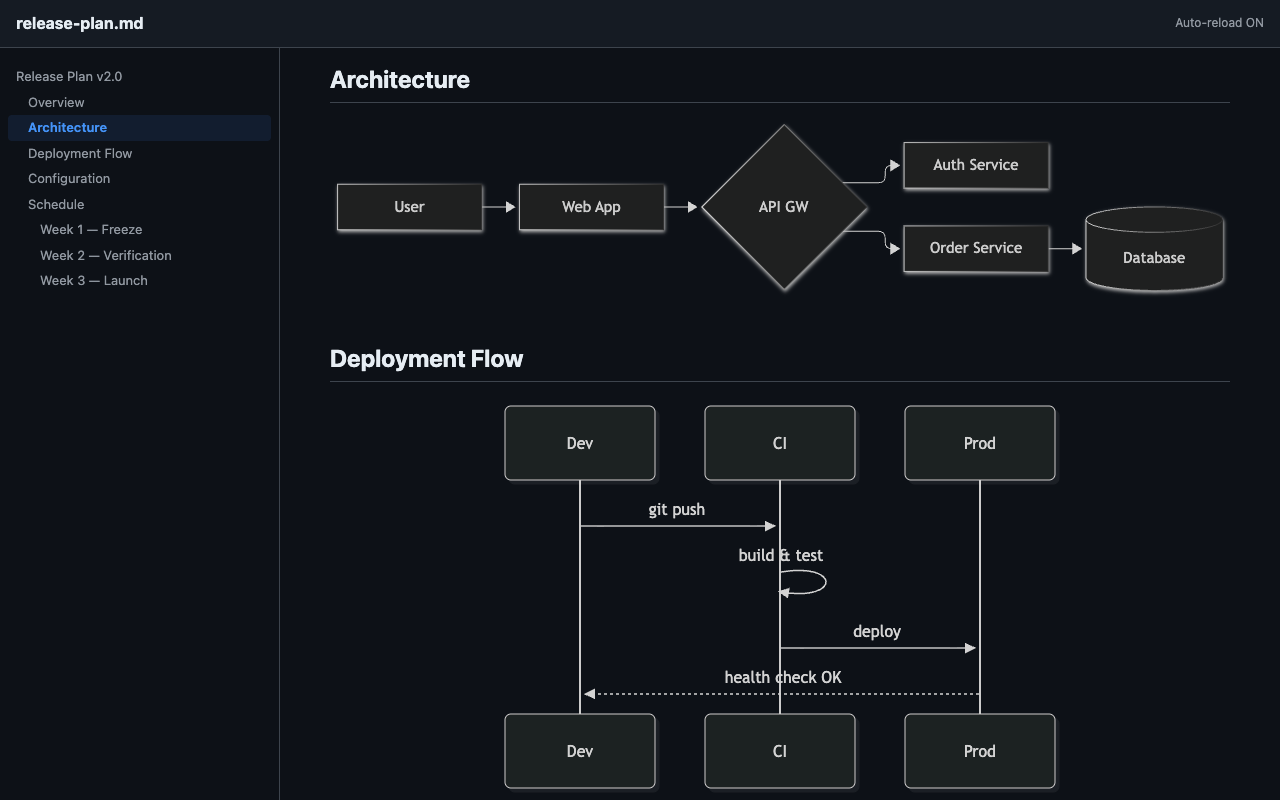
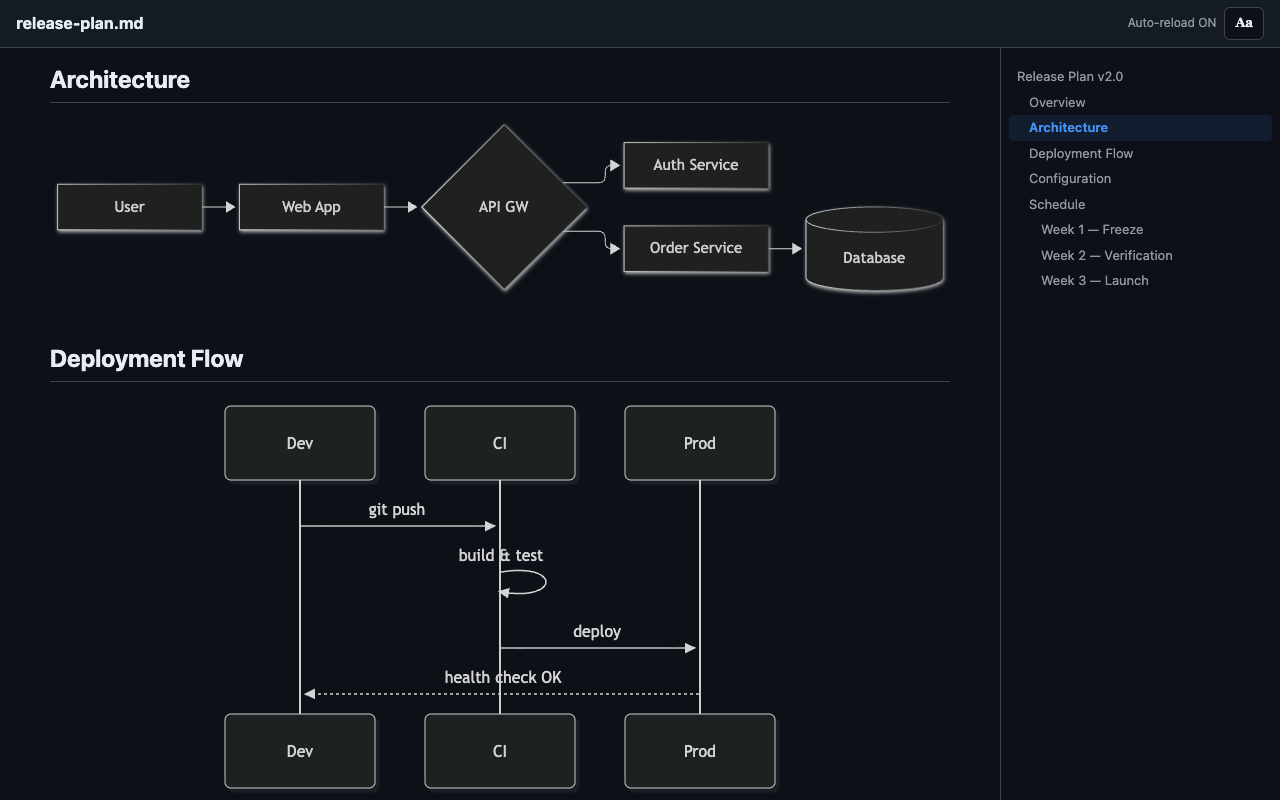
Bump version to 1.3.0
- Store listing: mention the file tree; add a 4th screenshot (viewer with a folder)
- Regenerate store screenshots for the TOC-on-the-right layout

Claude-Session: https://claude.ai/code/session_017mBC4tQY6E8xoAmwNzTwKk

diff --git a/scripts/store-assets.py b/scripts/store-assets.py
@@ -27,6 +27,26 @@ TAGLINE = {
     'ja': ('MD Browser', '目次・Mermaid 図・自動更新<br>Markdown ビューアー'),
 }
 
+# Extra files around release-plan.md so the viewer's file tree has something to show.
+FOLDER_STUBS = {
+    'en': {
+        'CHANGELOG.md': '# Changelog',
+        'docs/architecture.md': '# Architecture',
+        'docs/deployment.md': '# Deployment',
+        'docs/api/endpoints.md': '# API endpoints',
+        'notes/kickoff.md': '# Kickoff notes',
+        'notes/retrospective.md': '# Retrospective',
+    },
+    'ja': {
+        'CHANGELOG.md': '# 変更履歴',
+        'docs/architecture.md': '# システム構成',
+        'docs/deployment.md': '# デプロイ手順',
+        'docs/api/endpoints.md': '# API 一覧',
+        'notes/kickoff.md': '# キックオフ議事録',
+        'notes/retrospective.md': '# ふりかえり',
+    },
+}
+
 failures = []
 
 
@@ -98,6 +118,43 @@ def run_locale(p, loc):
     dark.evaluate("document.querySelectorAll('h2')[1].scrollIntoView()")
     time.sleep(1)
     dark.screenshot(path=str(out / '2-dark.png'))
+
+    print(f'[{loc}] viewer with a folder')
+    # The folder picker can't be driven headlessly, so stand it in with an OPFS folder (as the e2e tests do).
+    files = {'release-plan.md': (ROOT / 'docs' / 'store' / 'demo' / loc / 'release-plan.md').read_text(encoding='utf-8'),
+             **FOLDER_STUBS[loc]}
+    folder = ctx.new_page()
+    folder.goto(f'chrome-extension://{ext_id}/index.html')
+    folder.evaluate('''(files) => {
+      window.showDirectoryPicker = async () => {
+        const root = await navigator.storage.getDirectory();
+        await root.removeEntry('release-v2', { recursive: true }).catch(() => {});
+        const top = await root.getDirectoryHandle('release-v2', { create: true });
+        for (const [rel, text] of Object.entries(files)) {
+          const parts = rel.split('/');
+          let dir = top;
+          for (const part of parts.slice(0, -1)) dir = await dir.getDirectoryHandle(part, { create: true });
+          const w = await (await dir.getFileHandle(parts.at(-1), { create: true })).createWritable();
+          await w.write(text);
+          await w.close();
+        }
+        return top;
+      };
+    }''', files)
+    folder.click('#open-dir')
+    folder.wait_for_selector('#files .file-tree-file')
+    folder.click('#files button[data-path="release-plan.md"]')
+    folder.wait_for_selector('#files [aria-current="page"][data-path="release-plan.md"]')
+    folder.wait_for_selector('.diagram-mermaid svg', timeout=10000)
+    time.sleep(1)
+    tree = folder.evaluate('''() => ({
+      files: document.querySelectorAll('#files .file-tree-file').length,
+      folders: [...document.querySelectorAll('#files summary')].map((s) => s.textContent),
+      visible: !document.getElementById('files').hidden,
+    })''')
+    check(tree == {'files': len(files), 'folders': ['docs', 'api', 'notes'], 'visible': True},
+          f'file tree lists the folder {tree}')
+    folder.screenshot(path=str(out / '4-folder.png'))
 
     print(f'[{loc}] promo tile')
     tile = ctx.new_page()

diff --git a/docs/store/listing.md b/docs/store/listing.md
@@ -13,7 +13,7 @@
 
 | 項目 | 値 |
 |---|---|
-| アップロードするファイル | `release/md-browser-1.2.0.zip` |
+| アップロードするファイル | `release/md-browser-1.3.0.zip` |
 | バージョン | `extension/public/manifest.json` の `version`。更新するたびに上げる |
 
 ## 2. ストア掲載情報（Store listing）
@@ -46,7 +46,7 @@ FEATURES
 • Choose your own fonts for body text and code
 • Relative images and links to other .md files just work
 • Light and dark themes (follows your system setting)
-• Built-in viewer (click the toolbar icon) to open files or whole folders
+• Built-in viewer (click the toolbar icon) to open files or whole folders, with a collapsible file tree
 
 PRIVACY
 Everything runs locally in your browser. No data is collected or sent anywhere, and there are no analytics. The extension only re-reads the Markdown file you are currently viewing.
@@ -77,7 +77,7 @@ MD Browser は、パソコン上の Markdown ファイルを Chrome で読みや
 • 本文とコードのフォントを好みに変更
 • 相対パスの画像や、他の .md ファイルへのリンクもそのまま動作
 • ライト / ダークテーマ（OS の設定に追従）
-• ツールバーのアイコンから開けるビューアー（ファイル・フォルダ単位で表示）
+• ツールバーのアイコンから開けるビューアー（ファイル・フォルダ単位で表示、折りたためるファイルツリー付き）
 
 プライバシー
 すべての処理はブラウザ内で完結します。データの収集・送信やアクセス解析は一切行いません。拡張機能が再読み込みするのは、表示中の Markdown ファイルだけです。
@@ -96,7 +96,7 @@ MD Browser は、パソコン上の Markdown ファイルを Chrome で読みや
 | 種類 | サイズ | ファイル |
 |---|---|---|
 | ストアアイコン | 128×128 | `store-icon-128.png` |
-| スクリーンショット | 1280×800 | `en/1-document.png`, `en/2-dark.png`, `en/3-setup.png`（日本語版は `ja/` 配下） |
+| スクリーンショット | 1280×800 | `en/1-document.png`, `en/2-dark.png`, `en/3-setup.png`, `en/4-folder.png`（日本語版は `ja/` 配下） |
 | 小さいプロモーション タイル | 440×280 | `en/promo-small-440x280.png`（日本語版は `ja/` 配下） |
 
 作り直すとき: `npm run build:ext` の後に `python scripts/store-assets.py <一時ディレクトリ>` を実行する（Playwright for Python が必要）。
